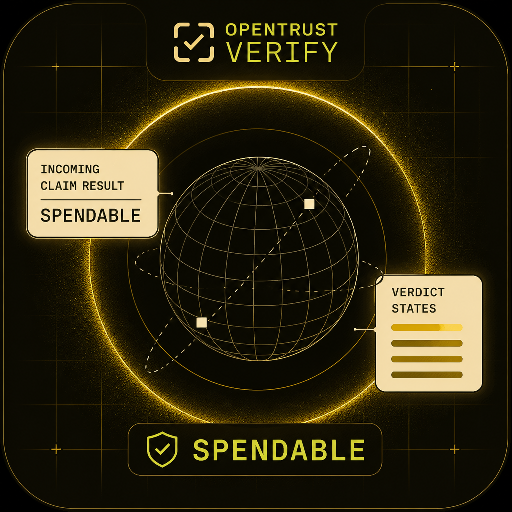
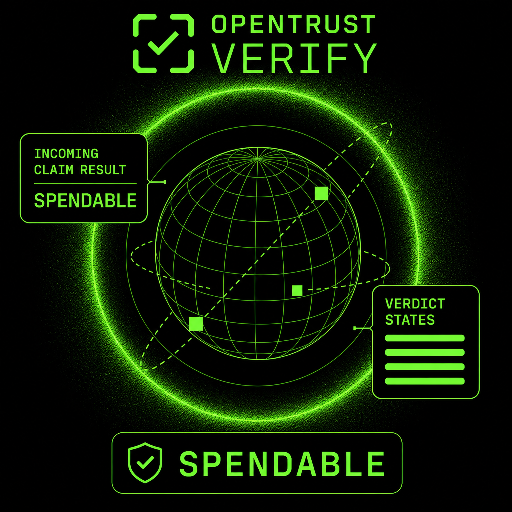
Tighten the chrome and make light theme read as black on white.

diff --git a/packages/ui/src/styles.css b/packages/ui/src/styles.css
@@ -28,8 +28,13 @@ a { color: inherit; text-decoration: none; }
 }
 .otv-mono { font-family: var(--otv-font-mono); }
 .otv-container {
-  width: min(1320px, calc(100% - 2.5rem));
+  width: min(1320px, calc(100% - 3rem));
   margin-inline: auto;
+}
+@media (min-width: 768px) {
+  .otv-container {
+    width: min(1320px, calc(100% - 5rem));
+  }
 }
 
 @font-face {
@@ -49,7 +54,7 @@ a { color: inherit; text-decoration: none; }
 .otv-logo-invert { color: var(--otv-logo-accent); }
 .otv-logo-word {
   font-family: var(--otv-font-logo);
-  font-size: clamp(1.55rem, 4.8vw, 2.4rem);
+  font-size: clamp(1.05rem, 2.4vw, 1.28rem);
   font-weight: 400;
   letter-spacing: 0.02em;
   line-height: 0.9;
@@ -57,11 +62,14 @@ a { color: inherit; text-decoration: none; }
   white-space: nowrap;
 }
 .otv-logo-compact .otv-logo-word {
-  font-size: 1.5rem;
+  font-size: 1.05rem;
+}
+.otv-header .otv-logo-word {
+  font-size: clamp(0.95rem, 2vw, 1.15rem);
 }
 .otv-footer .otv-logo-word {
-  font-size: clamp(1.7rem, 3.4vw, 2.6rem);
-  color: var(--otv-logo-accent);
+  font-size: clamp(1.05rem, 2.2vw, 1.25rem);
+  color: var(--otv-accent);
 }
 
 .otv-btn {
@@ -131,12 +139,15 @@ a { color: inherit; text-decoration: none; }
 }
 .otv-btn-dark {
   color: var(--otv-on-brand);
-  border-color: var(--otv-btn-outline);
+  border-color: var(--otv-ink);
   background-color: var(--otv-brand);
+  box-shadow: 4px 4px 0 0 var(--otv-ink);
 }
+.otv-btn-dark:hover { box-shadow: 6px 6px 0 0 var(--otv-ink); }
+.otv-btn-dark:active { box-shadow: 2px 2px 0 0 var(--otv-ink); }
 .otv-btn-border {
-  color: var(--otv-brand);
-  border-color: var(--otv-btn-outline);
+  color: var(--otv-text-primary);
+  border-color: var(--otv-ink);
   background-color: var(--otv-surface);
 }
 .otv-btn-border:hover {
@@ -177,7 +188,7 @@ a { color: inherit; text-decoration: none; }
   min-height: 40px;
   border: 2px solid var(--otv-border);
   background: var(--otv-surface);
-  color: var(--otv-text-secondary);
+  color: var(--otv-text-primary);
   font-family: var(--otv-font-label);
   font-size: 14px;
   font-weight: 600;
@@ -204,6 +215,7 @@ a { color: inherit; text-decoration: none; }
   border-radius: 8px;
   background-color: var(--otv-surface);
   border: 2px solid var(--otv-border);
+  color: var(--otv-text-primary);
 }
 .otv-card-lift {
   overflow: hidden;
@@ -303,7 +315,7 @@ a { color: inherit; text-decoration: none; }
   font-size: 13px;
   font-weight: 500;
   line-height: 16px;
-  color: var(--otv-brand);
+  color: var(--otv-text-primary);
   padding: 12px 16px;
   text-transform: uppercase;
   border-radius: 8px;
@@ -337,18 +349,40 @@ a { color: inherit; text-decoration: none; }
 }
 
 .otv-hero {
-  background-color: var(--otv-ink);
+  background-color: var(--otv-hero-bg);
   background-image:
     radial-gradient(circle at 12% 20%, var(--otv-hero-spot-a), transparent 42%),
     radial-gradient(circle at 88% 80%, var(--otv-hero-spot-b), transparent 46%);
   padding: 96px 0 110px;
-  color: var(--otv-on-dark);
+  color: var(--otv-hero-copy);
 }
 .otv-hero h1 {
   font-size: clamp(2.4rem, 5vw, 4rem);
   font-weight: 800;
   line-height: 1.05;
-  color: var(--otv-logo-accent);
+  color: var(--otv-hero-title);
+}
+.otv-theme-icon {
+  display: inline-flex;
+  align-items: center;
+  justify-content: center;
+  width: 36px;
+  height: 36px;
+  padding: 0;
+  border: 2px solid var(--otv-border);
+  border-radius: 8px;
+  background: var(--otv-surface);
+  color: var(--otv-text-primary);
+  cursor: pointer;
+}
+.otv-theme-icon svg {
+  width: 16px;
+  height: 16px;
+  fill: none;
+  stroke: currentColor;
+  stroke-width: 2;
+  stroke-linecap: round;
+  stroke-linejoin: round;
 }
 .otv-section { padding: 88px 0; }
 .otv-section-tint { background: var(--otv-surface-tint); }

diff --git a/apps/web/src/pages/Home.tsx b/apps/web/src/pages/Home.tsx
@@ -51,31 +51,14 @@ export function HomePage() {
         <div className="otv-container grid items-center gap-12 lg:grid-cols-2">
           <div>
             <h1 className="banner_big_title">{product.tagline}</h1>
-            <p className="mt-5 max-w-xl text-base text-[var(--otv-brand)]">
+            <p className="mt-5 max-w-xl text-base text-[var(--otv-hero-copy)]">
               A transaction hash can look paid while the recipient still cannot spend the asset. Send
               us the claim. We return a signed verdict your wallet or risk desk can show.
             </p>
-            <div className="mt-8 flex flex-wrap gap-3">
-              <Link to="/register" className={buttonClassName("primary")}>
-                <BtnText>Create an account</BtnText>
-              </Link>
-              <Link to="/docs" className={buttonClassName("secondary")}>
-                <BtnText>Read the API</BtnText>
-              </Link>
-            </div>
-            <ul className="mt-8 flex flex-wrap gap-2">
-              {tags.map((tag) => (
-                <li key={tag.label}>
-                  <Link className="otv-tag" to={tag.to}>
-                    {tag.label}
-                  </Link>
-                </li>
-              ))}
-            </ul>
           </div>
           <LandingArt
-            src="/marketing/otv-hero-globe.png"
-            alt="OpenTrust Verify globe showing incoming claim evidence, Ed25519 signature, and SPENDABLE verdict states"
+            src="/marketing/otv-verdict-dashboard.png"
+            alt="Incoming verdicts dashboard summarizing spendability and evidence themes"
             size="md"
           />
         </div>
@@ -86,6 +69,23 @@ export function HomePage() {
 
       <section className="otv-section">
         <div className="otv-container">
+          <ul className="mb-8 flex flex-wrap gap-2">
+            {tags.map((tag) => (
+              <li key={tag.label}>
+                <Link className="otv-tag" to={tag.to}>
+                  {tag.label}
+                </Link>
+              </li>
+            ))}
+          </ul>
+          <div className="mb-12 flex flex-wrap gap-3">
+            <Link to="/register" className={buttonClassName("primary")}>
+              <BtnText>Create an account</BtnText>
+            </Link>
+            <Link to="/docs" className={buttonClassName("secondary")}>
+              <BtnText>Read the API</BtnText>
+            </Link>
+          </div>
           <div className="mb-10 flex items-end justify-between gap-6">
             <h2 className="otv-heading mb-0">What you get</h2>
             <Link to="/docs" className={`${buttonClassName("secondary")} hidden lg:inline-flex`}>

diff --git a/apps/web/src/pages/Features.tsx b/apps/web/src/pages/Features.tsx
@@ -56,24 +56,16 @@ export function FeaturesPage() {
       <section className="otv-hero">
         <div className="otv-container grid items-center gap-12 lg:grid-cols-2">
           <div>
-            <p className="mb-3 text-xs font-semibold tracking-[0.28em] text-[var(--otv-brand)]">PRODUCT</p>
+            <p className="mb-3 text-xs font-semibold tracking-[0.28em] text-[var(--otv-hero-copy)]">PRODUCT</p>
             <h1 className="banner_big_title">What {product.shortName} actually does</h1>
-            <p className="mt-5 max-w-xl text-base text-[var(--otv-brand)]">
+            <p className="mt-5 max-w-xl text-base text-[var(--otv-hero-copy)]">
               {product.tagline} One HTTP call. A signed status your wallet or risk desk can show. No
               custody. No LLM deciding spendability.
             </p>
-            <div className="mt-8 flex flex-wrap gap-3">
-              <Link to="/docs" className={buttonClassName("primary")}>
-                <BtnText>Read the API</BtnText>
-              </Link>
-              <Link to="/whitepaper" className={buttonClassName("secondary")}>
-                <BtnText>How a check runs</BtnText>
-              </Link>
-            </div>
           </div>
           <LandingArt
-            src="/marketing/otv-hero-globe.png"
-            alt="OpenTrust Verify evidence globe with incoming claim, Ed25519 signature, and verdict states"
+            src="/marketing/otv-verdict-dashboard.png"
+            alt="Incoming verdicts dashboard for spendability summaries"
             size="md"
           />
         </div>
@@ -84,6 +76,14 @@ export function FeaturesPage() {
 
       <section className="otv-section">
         <div className="otv-container">
+          <div className="mb-10 flex flex-wrap gap-3">
+            <Link to="/docs" className={buttonClassName("primary")}>
+              <BtnText>Read the API</BtnText>
+            </Link>
+            <Link to="/whitepaper" className={buttonClassName("secondary")}>
+              <BtnText>How a check runs</BtnText>
+            </Link>
+          </div>
           <h2 className="otv-heading mb-10">Capabilities</h2>
           <div className="grid gap-6 md:grid-cols-2 lg:grid-cols-3">
             {FEATURES.map((x) => (

diff --git a/apps/web/src/components/ThemeSwitcher.tsx b/apps/web/src/components/ThemeSwitcher.tsx
@@ -1,32 +1,26 @@
-import { buttonClassName } from "@otv/ui";
-import { useTheme, type ThemePreference } from "@/lib/theme";
+import { useTheme } from "@/lib/theme";
 
-const OPTIONS: { id: ThemePreference; label: string }[] = [
-  { id: "system", label: "Device" },
-  { id: "light", label: "Light" },
-  { id: "dark", label: "Dark" },
-];
-
-export function ThemeSwitcher({ compact = false }: { compact?: boolean }) {
-  const { preference, setPreference } = useTheme();
+export function ThemeSwitcher({ compact: _compact = false }: { compact?: boolean }) {
+  const { resolved, setPreference } = useTheme();
+  const toDark = resolved !== "dark";
 
   return (
-    <div
-      className="inline-flex items-center gap-1"
-      role="group"
-      aria-label="Color theme"
+    <button
+      type="button"
+      className="otv-theme-icon"
+      aria-label={toDark ? "Switch to dark theme" : "Switch to light theme"}
+      onClick={() => setPreference(toDark ? "dark" : "light")}
     >
-      {OPTIONS.map((opt) => (
-        <button
-          key={opt.id}
-          type="button"
-          className={buttonClassName("ghost", undefined, "sm")}
-          aria-pressed={preference === opt.id}
-          onClick={() => setPreference(opt.id)}
-        >
-          {compact && opt.id === "system" ? "Auto" : opt.label}
-        </button>
-      ))}
-    </div>
+      {toDark ? (
+        <svg viewBox="0 0 24 24" aria-hidden>
+          <path d="M21 14.5A8.5 8.5 0 1 1 9.5 3 7 7 0 0 0 21 14.5z" />
+        </svg>
+      ) : (
+        <svg viewBox="0 0 24 24" aria-hidden>
+          <circle cx="12" cy="12" r="4" />
+          <path d="M12 3v2M12 19v2M4.2 4.2l1.4 1.4M18.4 18.4l1.4 1.4M3 12h2M19 12h2M4.2 19.8l1.4-1.4M18.4 5.6l1.4-1.4" />
+        </svg>
+      )}
+    </button>
   );
 }

diff --git a/packages/design-tokens/src/tokens.css b/packages/design-tokens/src/tokens.css
@@ -6,7 +6,7 @@
   --otv-brand-muted: rgba(124, 255, 58, 0.16);
   --otv-accent: #7cff3a;
   --otv-accent-warm: #7cff3a;
-  --otv-logo-accent: #7cff3a;
+  --otv-logo-accent: #000000;
   --otv-on-brand: #000000;
   --otv-inverse: #ffffff;
   --otv-on-inverse: #000000;
@@ -28,8 +28,11 @@
 
   --otv-header-bg: rgba(255, 255, 255, 0.96);
   --otv-header-shadow: rgba(0, 0, 0, 0.08);
-  --otv-hero-spot-a: rgba(124, 255, 58, 0.28);
-  --otv-hero-spot-b: rgba(124, 255, 58, 0.18);
+  --otv-hero-bg: #ffffff;
+  --otv-hero-title: #000000;
+  --otv-hero-copy: #111111;
+  --otv-hero-spot-a: rgba(124, 255, 58, 0.16);
+  --otv-hero-spot-b: rgba(0, 0, 0, 0.04);
   --otv-btn-shadow: #000000;
   --otv-btn-outline: #000000;
 
@@ -107,9 +110,12 @@
 
   --otv-header-bg: rgba(0, 0, 0, 0.92);
   --otv-header-shadow: rgba(0, 0, 0, 0.45);
+  --otv-hero-bg: #000000;
+  --otv-hero-title: #7cff3a;
+  --otv-hero-copy: #7cff3a;
   --otv-hero-spot-a: rgba(124, 255, 58, 0.22);
   --otv-hero-spot-b: rgba(124, 255, 58, 0.14);
-  --otv-btn-shadow: #7cff3a;
+  --otv-btn-shadow: #000000;
   --otv-btn-outline: #7cff3a;
 
   --otv-info: #6ea8fe;

diff --git a/apps/web/src/components/SiteHeader.tsx b/apps/web/src/components/SiteHeader.tsx
@@ -70,9 +70,7 @@ export function SiteHeader() {
           )}
         </nav>
         <div className="flex items-center justify-end gap-2">
-          <span className="hidden lg:inline-flex">
-            <ThemeSwitcher compact />
-          </span>
+          <ThemeSwitcher />
           <span className="hidden sm:inline-flex">
             <GithubStar />
           </span>
@@ -153,9 +151,6 @@ export function SiteHeader() {
                 Log in
               </Link>
             )}
-            <div className="px-3 py-2">
-              <ThemeSwitcher />
-            </div>
             <div className="px-3 py-2 sm:hidden">
               <GithubStar />
             </div>

diff --git a/apps/web/src/layouts/DocsLayout.tsx b/apps/web/src/layouts/DocsLayout.tsx
@@ -29,7 +29,7 @@ export function DocsLayout() {
               <a
                 key={id}
                 href={`#${id}`}
-                className="block rounded-[8px] px-3 py-2 text-sm font-semibold text-[var(--otv-text-secondary)] hover:bg-[var(--otv-accent)] hover:text-[var(--otv-brand)]"
+                className="block rounded-[8px] px-3 py-2 text-sm font-semibold text-[var(--otv-text-secondary)] hover:bg-[var(--otv-brand)] hover:text-[var(--otv-ink)]"
               >
                 {label}
               </a>
